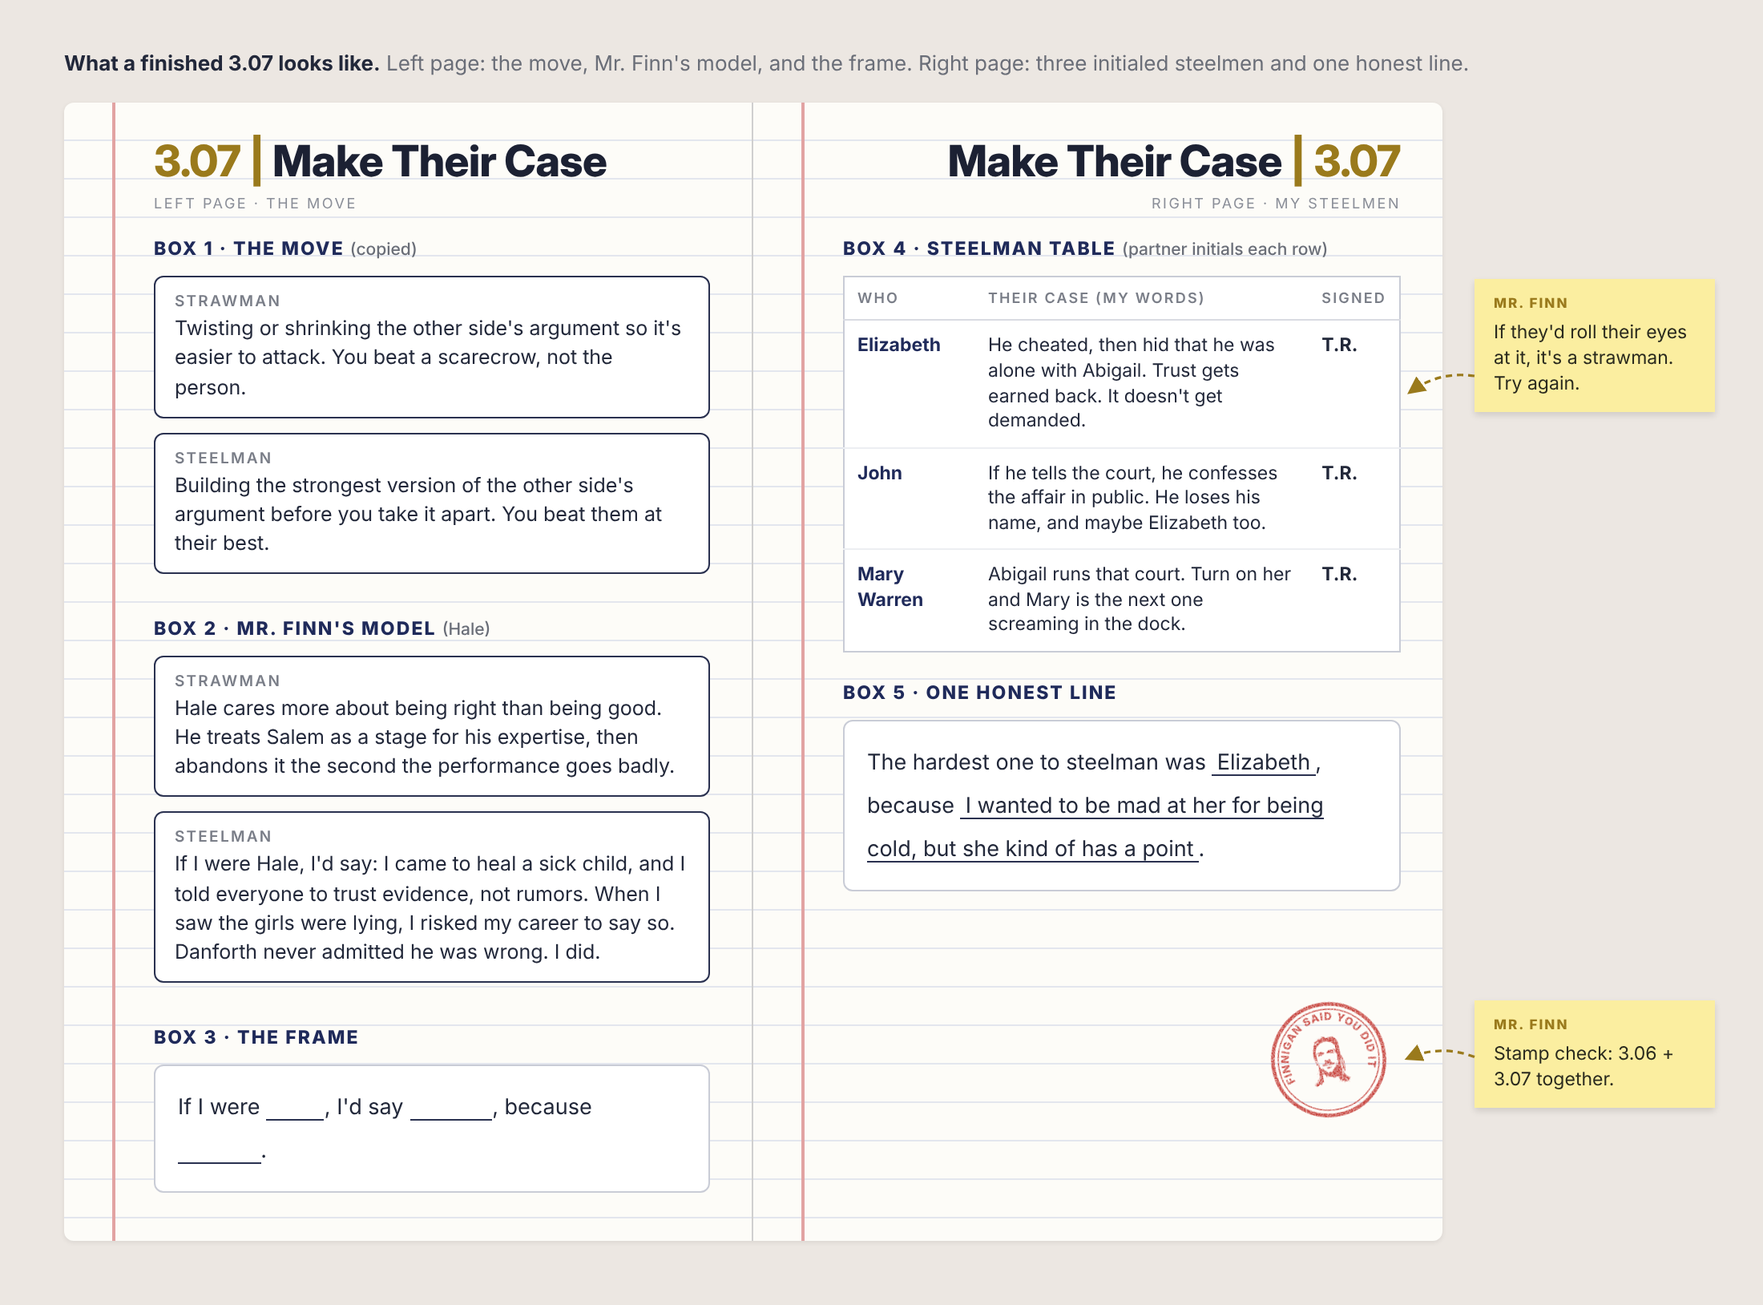
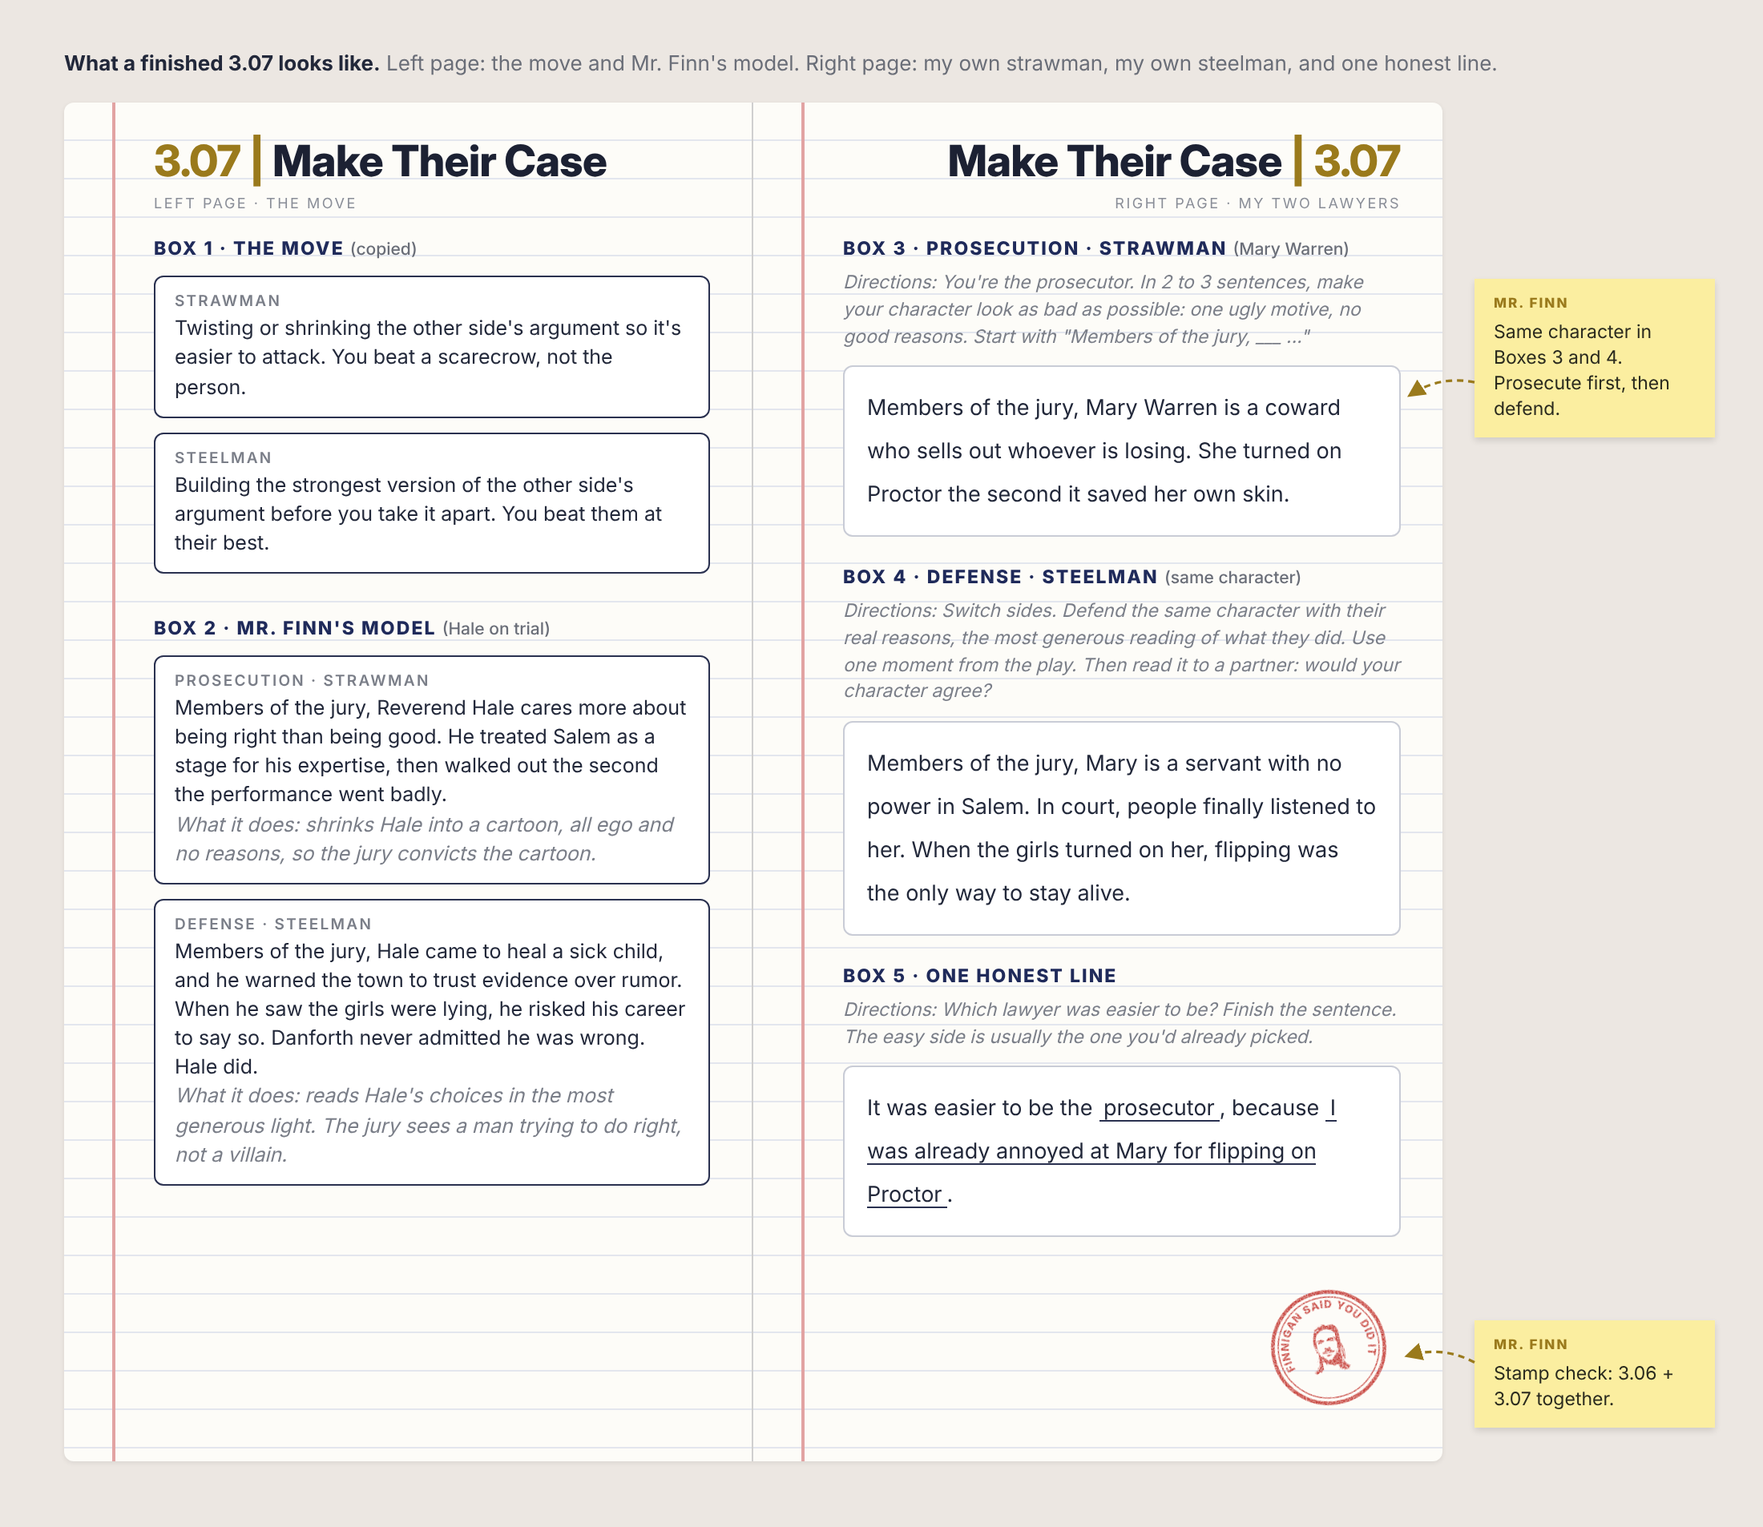
Updated Right Page

diff --git a/erwc11/mod03/3.07.html b/erwc11/mod03/3.07.html
@@ -113,6 +113,9 @@
   .tag { font: 600 12px/1.4 "Source Serif 4", serif; letter-spacing: .14em; text-transform: uppercase; color: var(--muted); margin-bottom: 6px; }
   .good .tag { color: var(--oxblood); }
   .closer { text-align: center; font-family: "IM Fell English", Georgia, serif; font-style: italic; font-size: 21px; color: var(--oxblood); margin-top: 18px; }
+  ol.steps .t { color: var(--muted); font-size: 15px; white-space: nowrap; }
+  .why { font-size: 15px; color: var(--muted); font-style: italic; margin-top: 8px !important; }
+  .frame b { color: var(--oxblood); font-size: 13px; letter-spacing: .12em; text-transform: uppercase; }
 </style>
 </head>
 <body>
@@ -126,75 +129,80 @@
 
 <section class="purpose">
   <h2>Purpose</h2>
-  <p>Two trials run in Act Two. One in Salem. One in the kitchen.</p>
   <p>Anyone can trash a character. That&rsquo;s easy.</p>
-  <p>Today you argue their side so well they&rsquo;d sign it.</p>
-  <p>That move is called a steelman. You&rsquo;ll need it for the mock trial.</p>
+  <p>A good lawyer can also defend them. That&rsquo;s hard.</p>
+  <p>Today you do both to the same person.</p>
+  <p>It&rsquo;s practice for the mock trial.</p>
   <div class="pages">
-    <div><b>Left page</b>The Move + Mr. Finn&rsquo;s model</div>
-    <div><b>Right page</b>Steelman Table + one honest line</div>
+    <div><b>Left page</b>Box 1 &middot; The Move<br>Box 2 &middot; Mr. Finn&rsquo;s Model</div>
+    <div><b>Right page</b>Box 3 &middot; Prosecution<br>Box 4 &middot; Defense<br>Box 5 &middot; One Honest Line</div>
   </div>
-  <p style="margin-top:16px"><a href="3.07-notebook-model.png" target="_blank"><img src="3.07-notebook-model.png" alt="Example notebook spread for 3.07. Left page: strawman and steelman definitions, Mr. Finn's Hale model, and the steelman frame. Right page: a three-row Steelman Table for Elizabeth, John, and Mary Warren with partner initials, plus one honest line." style="width:100%;height:auto;border:1px solid var(--rule);display:block"></a></p>
+  <p style="margin-top:16px"><a href="3.07-notebook-model.png" target="_blank"><img src="3.07-notebook-model.png" alt="Example notebook spread for 3.07. Left page: Box 1 strawman and steelman definitions, Box 2 Mr. Finn's model with a prosecutor strawmanning Hale and a defense attorney steelmanning him. Right page: a student prosecutes Mary Warren in Box 3, defends her in Box 4, and writes one honest line in Box 5." style="width:100%;height:auto;border:1px solid var(--rule);display:block"></a></p>
 </section>
 
 <section>
   <h2><span class="num">I.</span> The Move</h2>
-  <p class="meta"><b>7 min</b> &middot; Left page, top</p>
-  <p>Copy these two lines:</p>
-  <div class="frame"><b>Strawman:</b> twisting or shrinking the other side&rsquo;s argument so it&rsquo;s easier to attack. You beat a scarecrow, not the person.<br><b>Steelman:</b> building the strongest version of the other side&rsquo;s argument before you take it apart. You beat them at their best.</div>
-  <p>Here&rsquo;s the difference, using Reverend Hale:</p>
-  <div class="compare">
-    <div class="bad"><div class="tag">Strawman</div><p>Hale cares more about being right than being good. He treats Salem as a stage for his expertise, then abandons it the second the performance goes badly.</p></div>
-    <div class="good"><div class="tag">Steelman</div><p>If I were Hale, I&rsquo;d say: I came to heal a sick child, and I told everyone to trust evidence, not rumors. When I saw the girls were lying, I risked my career to say so. Danforth never admitted he was wrong. I did.</p></div>
-  </div>
-  <p>Copy the steelman frame under it. You&rsquo;ll use it all period:</p>
-  <div class="frame">If I were <span class="blank"></span>, I&rsquo;d say <span class="blank wide"></span>, because <span class="blank wide"></span>.</div>
+  <p class="meta"><b>4 min</b> &middot; Box 1 &middot; Left page</p>
+  <p>Copy both definitions.</p>
+  <div class="frame"><b>Strawman</b><br>Twisting or shrinking the other side&rsquo;s argument so it&rsquo;s easier to attack. You beat a scarecrow, not the person.</div>
+  <div class="frame"><b>Steelman</b><br>Building the strongest version of the other side&rsquo;s argument before you take it apart. You beat them at their best.</div>
+  <p class="why">Lawyers use both. A strawman gets a cheap laugh from the jury. A steelman earns their trust.</p>
 </section>
 
 <section>
-  <h2><span class="num">II.</span> Watch</h2>
+  <h2><span class="num">II.</span> Mr. Finn&rsquo;s Model</h2>
+  <p class="meta"><b>8 min</b> &middot; Box 2 &middot; Left page</p>
+  <p>Reverend Hale is on trial. Same man, two lawyers. Copy both.</p>
+  <div class="compare">
+    <div class="bad"><div class="tag">Prosecution &middot; Strawman</div><p>Members of the jury, Reverend Hale cares more about being right than being good. He treated Salem as a stage for his expertise, then walked out the second the performance went badly.</p><p class="why">What it does: shrinks Hale into a cartoon, all ego and no reasons, so the jury convicts the cartoon.</p></div>
+    <div class="good"><div class="tag">Defense &middot; Steelman</div><p>Members of the jury, Hale came to heal a sick child, and he warned the town to trust evidence over rumor. When he saw the girls were lying, he risked his career to say so. Danforth never admitted he was wrong. Hale did.</p><p class="why">What it does: reads Hale&rsquo;s choices in the most generous light. The jury sees a man trying to do right, not a villain.</p></div>
+  </div>
+  <div class="note"><b>Try it out loud:</b> as a class, prosecute Elizabeth with a strawman, then defend her with a steelman. No writing. Ask: would Elizabeth agree with the defense?</div>
+</section>
+
+<section>
+  <h2><span class="num">III.</span> Watch</h2>
   <p class="meta"><b>20 min</b> &middot; Just watch</p>
   <p>Watch the film from Hale&rsquo;s visit to Elizabeth&rsquo;s arrest. Follow Scenes 3 and 4 below.</p>
-  <div class="note"><b>While you watch:</b> pick the one person you&rsquo;d least want to defend. That&rsquo;s who you&rsquo;ll steelman first.</div>
+  <div class="note"><b>While you watch:</b> John or Mary Warren. Which one would you rather put on trial? That&rsquo;s your character for Boxes 3 and 4.</div>
   <p><strong>Scene 3 &middot; Hale makes a house call.</strong> Reverend Hale stops by to warn them that Elizabeth was named in court, and to test them. Why does John skip church? Can he list the Ten Commandments? John gets nine. The one he forgets is adultery. Elizabeth has to fill it in. (Oof.) John tells Hale that Abigail admitted none of it was witchcraft. Hale asks him to say that in court. Then Giles Corey and Francis Nurse burst in: Martha Corey and Rebecca Nurse have been arrested.</p>
   <p><strong>Scene 4 &middot; The needle.</strong> Court officers Cheever and Herrick show up with a warrant for Elizabeth. Cheever finds the poppet with a needle inside it. Here&rsquo;s why that matters: Abigail was stabbed with a needle at dinner at Parris&rsquo;s house, and she says Elizabeth&rsquo;s spirit did it. Mary admits she made the doll in court and put the needle in herself, with Abigail sitting right next to her. Doesn&rsquo;t matter. They take Elizabeth anyway. John tells Mary she has to testify against Abigail. Mary is terrified the girls will turn on her. And she knows about the affair.</p>
 </section>
 
 <section>
-  <h2><span class="num">III.</span> Steelman Swap</h2>
-  <p class="meta"><b>15 min</b> &middot; Right page &middot; Partners</p>
-  <ol class="steps">
-    <li>Draw the table below. Three rows.</li>
-    <li>Partner A steelmans Elizabeth out loud. Partner B steelmans John. One minute each.</li>
-    <li>Listener&rsquo;s job: would that person sign it? If yes, initial the row. If no, say what&rsquo;s missing and let them retry.</li>
-    <li>Write your row in your own words. Then swap characters and do Mary Warren together.</li>
-  </ol>
-  <table class="forms">
-    <thead><tr><th>Who</th><th>Their case at full strength</th><th>Signed?</th></tr></thead>
-    <tbody>
-      <tr><td>Elizabeth</td><td><em>Why she still can&rsquo;t fully trust John</em></td><td><span class="blank short"></span></td></tr>
-      <tr><td>John</td><td><em>Why he won&rsquo;t just go tell the court the truth</em></td><td><span class="blank short"></span></td></tr>
-      <tr><td>Mary Warren</td><td><em>Why testifying against Abigail is a terrible idea</em></td><td><span class="blank short"></span></td></tr>
-    </tbody>
-  </table>
-  <div class="note"><b>No villains allowed.</b> If your sentence makes them sound dumb or evil, it&rsquo;s a strawman. Start over.</div>
+  <h2><span class="num">IV.</span> Prosecute</h2>
+  <p class="meta"><b>5 min</b> &middot; Box 3 &middot; Right page</p>
+  <div class="frame"><b>Prosecution &middot; Strawman</b><br>Members of the jury, <span class="blank wide"></span> &hellip;</div>
+  <p class="why">You&rsquo;re the prosecutor. In 2 to 3 sentences, make your character look as bad as possible: one ugly motive, no good reasons.</p>
 </section>
 
 <section>
-  <h2><span class="num">IV.</span> One Honest Line</h2>
-  <p class="meta"><b>5 min</b> &middot; Right page, bottom</p>
-  <p>Now you get to judge. Finish this:</p>
-  <div class="frame">The hardest one to steelman was <span class="blank"></span>, because <span class="blank wide"></span>.</div>
+  <h2><span class="num">V.</span> Defend</h2>
+  <p class="meta"><b>8 min</b> &middot; Box 4 &middot; Right page &middot; Partners</p>
+  <div class="frame"><b>Defense &middot; Steelman</b><br>Members of the jury, <span class="blank wide"></span> &hellip;</div>
+  <p class="why">Switch sides. Defend the same character with their real reasons, the most generous reading of what they did. Use one moment from the play.</p>
+  <ol class="steps">
+    <li>Write it. <span class="t">5 min</span></li>
+    <li>Read it to a partner. They answer one question: would your character agree? If not, fix one thing. <span class="t">3 min</span></li>
+  </ol>
+  <div class="note"><b>No villains allowed.</b> If your defense makes them sound dumb or evil, you wrote another strawman.</div>
+</section>
+
+<section>
+  <h2><span class="num">VI.</span> One Honest Line</h2>
+  <p class="meta"><b>4 min</b> &middot; Box 5 &middot; Right page</p>
+  <div class="frame">It was easier to be the <span class="blank"></span>, because <span class="blank wide"></span>.</div>
+  <p class="why">Which lawyer was easier to be? The easy side is usually the one you&rsquo;d already picked.</p>
   <div class="note"><b>For the brave:</b> Elizabeth says John is judging himself harder than she is. Steelman that. Is she right?</div>
-  <div class="note"><b>Last 8 minutes:</b> buffer. Finish your table and get your initials.</div>
+  <div class="note"><b>Last 6 minutes:</b> buffer. Finish your boxes.</div>
 </section>
 
 <section>
   <h2>Success Looks Like</h2>
   <ul class="check">
-    <li><b>Left page:</b> strawman vs. steelman + the frame <span class="pts">4 pts</span></li>
-    <li><b>Right page:</b> 3 steelman rows, each initialed by your partner <span class="pts">6 pts</span></li>
-    <li><b>Right page:</b> one honest line <span class="pts">2 pts</span></li>
+    <li><b>Left page:</b> Box 1 definitions + Box 2 model <span class="pts">4 pts</span></li>
+    <li><b>Right page:</b> Boxes 3 and 4 on one character, defense checked by a partner <span class="pts">4 pts</span></li>
+    <li><b>Right page:</b> Box 5, one honest line <span class="pts">4 pts</span></li>
   </ul>
   <p style="margin-top:12px"><em>Stamp check: Mr. Finn stamps 3.06 and 3.07 together.</em></p>
 </section>

diff --git a/notebook-models/notebook-model-erwc11-3.07.html b/notebook-models/notebook-model-erwc11-3.07.html
@@ -101,8 +101,10 @@ table.pw td.tl{color:#2a3150}
 
 .page.right{padding-bottom:140px}
 u.pg{display:inline-block;min-width:34px;border-bottom:1.5px solid #2a3150;text-decoration:none}
+.why{font-size:11px;line-height:1.4;color:#7a7e88;font-style:italic;margin:5px 0 0}
+.dir{font-size:11.5px;line-height:1.45;color:#7a7e88;font-style:italic;margin:-4px 0 10px}
 </style></head><body><div class="wrap" id="wrap">
-<p class="cap" contenteditable="true" spellcheck="false"><b>What a finished 3.07 looks like.</b> Left page: the move, Mr. Finn&#39;s model, and the frame. Right page: three initialed steelmen and one honest line.</p>
+<p class="cap" contenteditable="true" spellcheck="false"><b>What a finished 3.07 looks like.</b> Left page: the move and Mr. Finn&#39;s model. Right page: my own strawman, my own steelman, and one honest line.</p>
 <div class="row">
 <div class="book" id="book" contenteditable="true" spellcheck="false">
  <div class="page left">
@@ -112,25 +114,26 @@ u.pg{display:inline-block;min-width:34px;border-bottom:1.5px solid #2a3150;text-
   <div class="study"><div class="k">Strawman</div><p>Twisting or shrinking the other side's argument so it's easier to attack. You beat a scarecrow, not the person.</p></div>
   <div class="study"><div class="k">Steelman</div><p>Building the strongest version of the other side's argument before you take it apart. You beat them at their best.</p></div>
   <div class="gap"></div>
-  <div class="box">Box 2 · Mr. Finn's Model <span>(Hale)</span></div>
-  <div class="study" id="model"><div class="k">Strawman</div><p>Hale cares more about being right than being good. He treats Salem as a stage for his expertise, then abandons it the second the performance goes badly.</p></div>
-  <div class="study"><div class="k">Steelman</div><p>If I were Hale, I'd say: I came to heal a sick child, and I told everyone to trust evidence, not rumors. When I saw the girls were lying, I risked my career to say so. Danforth never admitted he was wrong. I did.</p></div>
-  <div class="gap"></div>
-  <div class="box">Box 3 · The Frame</div>
-  <div class="bank">If I were <u>&nbsp;&nbsp;&nbsp;&nbsp;&nbsp;&nbsp;&nbsp;&nbsp;</u>, I'd say <u>&nbsp;&nbsp;&nbsp;&nbsp;&nbsp;&nbsp;&nbsp;&nbsp;&nbsp;&nbsp;&nbsp;&nbsp;</u>, because <u>&nbsp;&nbsp;&nbsp;&nbsp;&nbsp;&nbsp;&nbsp;&nbsp;&nbsp;&nbsp;&nbsp;&nbsp;</u>.</div>
+  <div class="box">Box 2 · Mr. Finn's Model <span>(Hale on trial)</span></div>
+  <div class="study" id="model"><div class="k">Prosecution · Strawman</div><p>Members of the jury, Reverend Hale cares more about being right than being good. He treated Salem as a stage for his expertise, then walked out the second the performance went badly.</p><p class="why">What it does: shrinks Hale into a cartoon, all ego and no reasons, so the jury convicts the cartoon.</p></div>
+  <div class="study"><div class="k">Defense · Steelman</div><p>Members of the jury, Hale came to heal a sick child, and he warned the town to trust evidence over rumor. When he saw the girls were lying, he risked his career to say so. Danforth never admitted he was wrong. Hale did.</p><p class="why">What it does: reads Hale's choices in the most generous light. The jury sees a man trying to do right, not a villain.</p></div>
+  
  </div>
  <div class="page right">
   <h1 class="title">Make Their Case <span class="code">| 3.07</span></h1>
-  <div class="side">Right page · my steelmen</div>
-  <div class="box">Box 4 · Steelman Table <span>(partner initials each row)</span></div>
-  <table class="star" id="tracker"><tbody><tr><th>Who</th><th>Their case (my words)</th><th>Signed</th></tr>
-  <tr><td>Elizabeth</td><td>He cheated, then hid that he was alone with Abigail. Trust gets earned back. It doesn't get demanded.</td><td><b>T.R.</b></td></tr>
-  <tr><td>John</td><td>If he tells the court, he confesses the affair in public. He loses his name, and maybe Elizabeth too.</td><td><b>T.R.</b></td></tr>
-  <tr><td>Mary Warren</td><td>Abigail runs that court. Turn on her and Mary is the next one screaming in the dock.</td><td><b>T.R.</b></td></tr></tbody></table>
+  <div class="side">Right page · my two lawyers</div>
+  <div class="box">Box 3 · Prosecution · Strawman <span>(Mary Warren)</span></div>
+  <p class="dir">Directions: You're the prosecutor. In 2 to 3 sentences, make your character look as bad as possible: one ugly motive, no good reasons. Start with "Members of the jury, ___ ..."</p>
+  <div class="bank" id="straw">Members of the jury, Mary Warren is a coward who sells out whoever is losing. She turned on Proctor the second it saved her own skin.</div>
+  <div class="gap"></div>
+  <div class="box">Box 4 · Defense · Steelman <span>(same character)</span></div>
+  <p class="dir">Directions: Switch sides. Defend the same character with their real reasons, the most generous reading of what they did. Use one moment from the play. Then read it to a partner: would your character agree?</p>
+  <div class="bank" id="tracker">Members of the jury, Mary is a servant with no power in Salem. In court, people finally listened to her. When the girls turned on her, flipping was the only way to stay alive.</div>
   <div class="gap"></div>
   <div class="box">Box 5 · One Honest Line</div>
-  <div class="bank" id="honest">The hardest one to steelman was <u>Elizabeth</u>, because <u>I wanted to be mad at her for being cold, but she kind of has a point</u>.</div>
-  <svg class="stamp" id="stamp" contenteditable="false" style="left:322px;top:560px" viewBox="0 0 100 100">
+  <p class="dir">Directions: Which lawyer was easier to be? Finish the sentence. The easy side is usually the one you'd already picked.</p>
+  <div class="bank" id="honest">It was easier to be the <u>prosecutor</u>, because <u>I was already annoyed at Mary for flipping on Proctor</u>.</div>
+  <svg class="stamp" id="stamp" contenteditable="false" style="left:322px;top:740px" viewBox="0 0 100 100">
    <defs>
     <filter id="rough"><feTurbulence type="fractalNoise" baseFrequency=".9" numOctaves="2" seed="4"></feTurbulence><feColorMatrix values="0 0 0 0 0  0 0 0 0 0  0 0 0 0 0  0 0 0 -1.6 1.55"></feColorMatrix><feComposite in="SourceGraphic" operator="in"></feComposite></filter>
     <clipPath id="clip"><circle cx="50" cy="50" r="40"></circle></clipPath>
@@ -146,8 +149,8 @@ u.pg{display:inline-block;min-width:34px;border-bottom:1.5px solid #2a3150;text-
  </div>
 </div>
 <div class="notes" id="notes" contenteditable="true" spellcheck="false">
-<div class="sticky" id="n1" data-target="tracker" style="top: 110px; left: 0px;"><div class="who" contenteditable="false" title="Drag to move">MR. FINN</div>If they'd roll their eyes at it, it's a strawman. Try again.</div>
-<div class="sticky" id="n3" data-target="stamp" style="top: 560px; left: 0px;"><div class="who" contenteditable="false" title="Drag to move">MR. FINN</div>Stamp check: 3.06 + 3.07 together.</div>
+<div class="sticky" id="n1" data-target="straw" style="top: 110px; left: 0px;"><div class="who" contenteditable="false" title="Drag to move">MR. FINN</div>Same character in Boxes 3 and 4. Prosecute first, then defend.</div>
+<div class="sticky" id="n3" data-target="stamp" style="top: 760px; left: 0px;"><div class="who" contenteditable="false" title="Drag to move">MR. FINN</div>Stamp check: 3.06 + 3.07 together.</div>
 </div>
 </div></div>
 <div id="bar"><span>Click any text to edit. Drag MR. FINN labels and the stamp.</span><button class="ghost" id="reset">Reset</button><button class="ghost" id="savefile">Save to File</button><button id="export">Export PNG</button></div>
